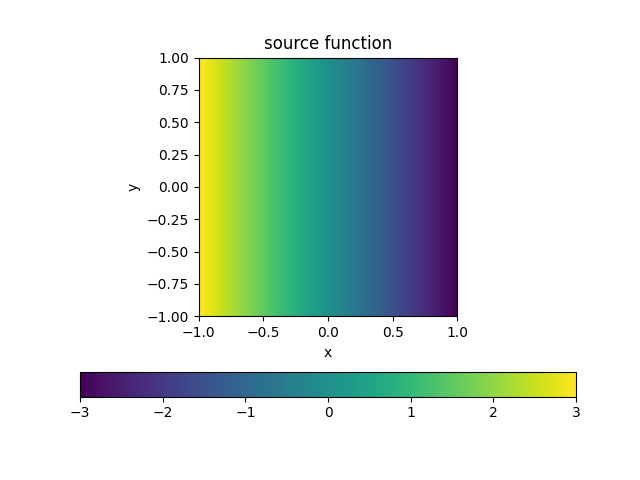
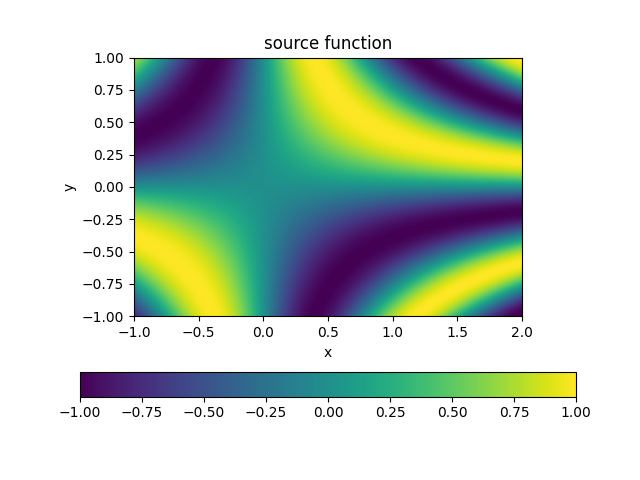
drm also seems to work for other domains. include nmfde A3 code to compare output to

diff --git a/old/nmfde_A3/assignment-3.py b/old/nmfde_A3/assignment-3.py
@@ -1,0 +1,181 @@
+import numpy as np
+import matplotlib.pyplot as plt
+import scipy.sparse as sp
+import scipy.sparse.linalg as la
+
+plot = True
+# parameters
+LeftX = -1.0
+RightX = 2.0
+LeftY = -1.0
+RightY = 1.0
+Nx = 200 # number of intervals in x-direction
+Ny = 200 # number of intervals in y-direction
+dx = (RightX - LeftX) / Nx # grid step in x-direction
+dy = (RightY - LeftY) / Ny # grid step in y-direction
+# xgrid = np.linspace(LeftX, RightX, Nx+1)
+# ygrid = np.linspace(LeftY, RightY, Ny+1)
+# x,y = np.meshgrid(xgrid[1:-1], ygrid[1:-1])
+x,y = np.mgrid[LeftX+dx:RightX:dx, LeftY+dy:RightY:dy]
+x = x.transpose()
+y = y.transpose()
+if plot and Nx < 5:
+    print(x)
+    print(y)
+
+def assemble_D(n, h=1.0):
+    d0 = np.repeat(-1, n-1)
+    d1 = np.repeat(1, n-1)
+    D = sp.diags([d0, d1], [-1, 0], shape=(n, n-1))
+    return D / h
+
+def FD_laplacian_2d(Nx, Ny, dx, dy):
+    Dx = assemble_D(Nx, dx)
+    Lxx = Dx.transpose().dot(Dx)
+    Ix = sp.eye(Nx - 1)
+    Dy = assemble_D(Ny, dy)
+    Lyy = Dy.transpose().dot(Dy)
+    Iy = sp.eye(Ny - 1)
+    A = sp.kron(Iy, Lxx) + sp.kron(Lyy, Ix)
+    return A
+
+def sourcefunc(x, y, alpha=40):
+    sum = 0
+    for i in range(1,10):
+        for j in range(1,5):
+            sum += np.exp(-alpha*(x-i)**2 - alpha*(y-j)**2)
+    return sum
+
+def sourcefunc_const(x, y, const=-3):
+    return x*const
+
+def source_2(x, y):
+    return np.exp(-20*(x-0.5)**2 - 20*(y-0.5)**2)+0.1
+
+def source3(x, y):
+    return np.sin(4*x*y)
+
+f = source3(x, y)
+flx = np.reshape(f, (Nx-1)*(Ny-1), order='C')
+A = FD_laplacian_2d(Nx, Ny, dx, dy)
+u = la.spsolve(A, flx)
+# reshaping the solution vector into 2D array
+uArr = np.reshape(u, (Ny-1, Nx-1), order='C')
+uArr = np.pad(uArr, ((1, 1), (1, 1)), 'constant', constant_values=0)
+
+
+# visualizing the matrix
+if plot:
+    if Nx < 5:
+        print(A.toarray())
+    plt.figure(0)
+    plt.spy(A)
+    plt.savefig('plots/sparsity.png')
+    #plt.show()
+# visualizing the source function
+if plot:
+    #plt.ion()
+    plt.figure(1)
+    plt.clf()
+    plt.imshow(f, extent=[x.min(), x.max(), y.min(), y.max()], origin='lower')
+    plt.colorbar()
+    # additional commands to make your plot look correct
+    plt.xlabel('x')
+    plt.ylabel('y')
+    plt.title('Source function')
+    plt.savefig('plots/source.png')
+    #plt.show()
+
+# visualizing the solution
+if plot:
+    plt.figure(2)
+    plt.clf()
+    plt.imshow(uArr, extent=[x.min(), x.max(), y.min(), y.max()], origin='lower')
+    plt.colorbar()
+    # additional commands to make your plot look correct
+    plt.xlabel('x')
+    plt.ylabel('y')
+    plt.title('Solution')
+    plt.savefig('plots/solution.png')
+    #plt.show()
+
+# FVM
+
+def coeffK1(x, y):
+    return x*0 + 1
+
+def coeffK2(x, y):
+    return 1 + 0.1*(x+y+x*y)
+
+def create2DLFVM(Nx, Ny, dx, dy, coeffFun):
+    # main diagonal
+    diag = np.zeros((Nx-1) * (Ny-1))
+    upper = np.zeros((Nx-1) * (Ny-1) - 1)
+    lower = np.zeros((Nx-1) * (Ny-1) - 1)
+    upper_upper = np.zeros((Nx-1) * (Ny-1) - Nx + 1)
+    lower_lower = np.zeros((Nx-1) * (Ny-1) - Nx + 1)
+    if Nx < 5:
+        print(len(diag), len(upper), len(lower), len(upper_upper), len(lower_lower))
+    for j in range(1, Ny):
+        for i in range(1, Nx):
+            idx = (j-1)*(Nx-1) + i-1
+            if Nx < 5:
+                print('i =', i, 'j =', j, 'idx =', idx)
+                print('i*dx =', i*dx, 'j*dy =', j*dy)
+            x = i * dx
+            y = j * dy
+            diag[idx] = ((coeffFun(x-dx/2, y) / dx**2) + (coeffFun(x, y-dy/2)) / dy**2) + ((coeffFun(x + dx/2, y) / dx**2) + (coeffFun(x, y+dy/2)) / dy**2)
+            if i < Nx-1:
+                upper[idx] = -coeffFun(x + dx/2, y) / dx**2
+            if i > 1:
+                lower[idx-1] = -coeffFun(x - dx/2, y) / dx**2
+            if j < Ny-1:
+                upper_upper[idx] = -coeffFun(x, y + dy/2) / dy**2
+            if j > 1:
+                lower_lower[idx-Nx+1] = -coeffFun(x, y - dy/2) / dy**2
+    A = sp.diags([lower_lower, lower, diag, upper, upper_upper], [-(Nx-1), -1, 0, 1, Nx-1], shape=((Nx-1)*(Ny-1), (Nx-1)*(Ny-1)), format='csc')
+    return A
+
+
+f = sourcefunc(x, y)
+flx = np.reshape(f, (Nx-1)*(Ny-1), order='C')
+A = create2DLFVM(Nx, Ny, dx, dy, coeffK2)
+u = la.spsolve(A, flx)
+uArr = np.reshape(u, (Ny-1, Nx-1), order='C')
+uArr = np.pad(uArr, ((1, 1), (1, 1)), 'constant', constant_values=0)
+
+if plot:
+    if Nx < 5:
+        print(A.toarray())
+    plt.figure(3)
+    plt.spy(A)
+    plt.savefig('plots/sparsity_fvm.png')
+    #plt.show()
+
+if plot:
+    plt.figure(4)
+    plt.clf()
+    plt.subplot(1, 2, 1)
+    plt.imshow(coeffK1(x, y), extent=[x.min(), x.max(), y.min(), y.max()], origin='lower')
+    plt.title('k1')
+    plt.xlabel('x')
+    plt.ylabel('y')
+    plt.subplot(1, 2, 2)
+    plt.imshow(coeffK2(x, y), extent=[x.min(), x.max(), y.min(), y.max()], origin='lower')
+    plt.title('k2')
+    plt.xlabel('x')
+    plt.ylabel('y')
+    plt.savefig('plots/k_functions.png', bbox_inches='tight')
+
+# visualizing the solution
+if plot:
+    plt.figure(5)
+    plt.clf()
+    plt.imshow(uArr, extent=[x.min(), x.max(), y.min(), y.max()], origin='lower')
+    plt.colorbar()
+    # additional commands to make your plot look correct
+    plt.xlabel('x')
+    plt.ylabel('y')
+    plt.title('Solution FVM')
+    plt.savefig('plots/solution_fvm.png')
+    #plt.show()

diff --git a/project8/newDeepRitz.py b/project8/newDeepRitz.py
@@ -6,7 +6,7 @@ import matplotlib.pyplot as plt
 
 def drm_forcing_2d_poisson(input):
     # eq 12 in paper: f=1
-    f = input[:, 0] * -3
+    f = input[:, 0] * 0 + 1
     return f.unsqueeze(1)
 
 def sourcefunc_nmfde_A3(input, alpha=40):
@@ -16,8 +16,16 @@ def sourcefunc_nmfde_A3(input, alpha=40):
             sum += torch.exp(-alpha*(input[:, 0]-i)**2 - alpha*(input[:,1]-j)**2)
     return sum
 
+def source3(input):
+    f = torch.exp(-20 * (input[:, 0] - 0.5) ** 2 - 20 * (input[:, 1] - 0.5) ** 2) + 0.1
+    return f.unsqueeze(1)
+
+def source4(input):
+    return torch.sin(4  * input[:, 0] * input[:, 1]).unsqueeze(1)
+
+# to change which is used:
 def source(input):
-    return drm_forcing_2d_poisson(input)
+    return source4(input)
 
 def drm_loss_2d_poisson_domain(domain_input, domain_output):
     # sum/mean of 0.5 * (u_x^2 + u_y^2) - f*u in the domain
@@ -33,16 +41,21 @@ def drm_loss_2d_poisson_bndry(bndry_output):
     return torch.mean(bndry_output * bndry_output)
 
 device = cv.get_device()
-model = neural_networks.models.NN.DRM(2, 10, 4)
+# init model
+act_fn = neural_networks.modules.Sin(torch.pi)
+model = neural_networks.models.NN.DRM(2, 20, 4, act_fn=act_fn)
 print(model)
 model.to(device)
 model.double()
-model.initialize_weights(torch.nn.init.xavier_uniform_, torch.nn.init.zeros_, weight_init_kwargs={'gain': 0.5})
-n_epochs = 3000
+model.initialize_weights(torch.nn.init.xavier_uniform_, torch.nn.init.zeros_, weight_init_kwargs={'gain': 0.5   })
+
+# training params
+n_epochs = 5000
 optimizer = torch.optim.Adam(model.parameters(), lr=1e-3)
-coord_space = cv.float_parameter_space([[-1, 1], [-1, 1]], device)
-# test source function
-f_loc = coord_space.fgrid(100)
+coord_space = cv.float_parameter_space([[-1, 2], [-1, 1]], device) # domain defined here
+
+# plot source function
+f_loc = coord_space.fgrid(300)
 f = source(f_loc)
 x, y = coord_space.regrid(f_loc)
 f = coord_space.regrid(f)[0]
@@ -51,21 +64,23 @@ x = x.detach().to('cpu')
 y = y.detach().to('cpu')
 cv.plot_2d(x, y, f, title='source function', fig_id=1)
 
+# train
 for epoch in range(n_epochs):
     domain_input = coord_space.rand(1000).requires_grad_(True)
     domain_output = model(domain_input)
-    loss1 = drm_loss_2d_poisson_domain(domain_input, domain_output)
-    bndry_input = coord_space.bndry_rand(1000).requires_grad_(True)
+    domain_loss = drm_loss_2d_poisson_domain(domain_input, domain_output)
+    bndry_input = coord_space.bndry_rand(500).requires_grad_(True)
     bndry_output = model(bndry_input)
-    loss2 = drm_loss_2d_poisson_bndry(bndry_output)
-    loss = loss1 + 500 * loss2
+    bndry_loss = drm_loss_2d_poisson_bndry(bndry_output)
+    loss = domain_loss + 100 * bndry_loss
     optimizer.zero_grad()
     loss.backward()
     optimizer.step()
     if epoch % 100 == 0:
-        print(f'Epoch {epoch}, loss1: {loss1.item()}, loss2: {loss2.item()}, loss: {loss.item()}')
+        print(f'Epoch {epoch}, domain loss: {domain_loss.item()}, boundary loss: {bndry_loss.item()}, total: {loss.item()}')
 
-grid = coord_space.fgrid(100)
+# plot output
+grid = coord_space.fgrid(200)
 output = model(grid)
 x, y = coord_space.regrid(grid)
 f = coord_space.regrid(output)[0]

diff --git a/project8/convenience.py b/project8/convenience.py
@@ -8,7 +8,7 @@ import time
 
 def get_device(override: str = None):
     if override is not None:
-        return torch.device(override)
+        return override
     device = 'cuda:0' if torch.cuda.is_available() else 'cpu'
     if device == 'cpu':
         warn('CUDA/ROCm not available, Using CPU.')
@@ -24,8 +24,8 @@ def plot_2d(x, y, f, title, fig_id=0, filename=None):
     plt.xlabel('x')
     plt.ylabel('y')
     plt.title(title)
-    if domain[1] - domain[0] < domain[3] - domain[2]:
-        plt.colorbar()
+    if domain[1] - domain[0] <1.1* (domain[3] - domain[2]):
+        plt.colorbar(orientation='vertical')
     else:
         plt.colorbar(orientation='horizontal')
     plt.savefig('plots/'+filename)
@@ -46,7 +46,7 @@ def plot_plane(x, y, f, title, fig_id=0, filename=None):
 class float_parameter_space:
     def __init__(self, domain: iter, device='cpu'):
         # domain is a 2D tensor of floats, for constant parameters, use [a, a]
-        # all methods output a tensor of floats ready to be used in models
+        # most methods output a tensor of float64 ready to be used in models, in shape (n, d)
         # all methods are generally a lot slower on gpu than on cpu,
         # but still faster than having this class on cpu and moving output to gpu
         self.domain = torch.tensor(domain, dtype=torch.float64, device=device)
@@ -68,7 +68,7 @@ class float_parameter_space:
         if center is None:
             center = self.center
         if amp is None:
-            amp = self.amp
+            amp = self.amp / 3
         rand = center + amp * torch.randn(n, self.domain.shape[0], device=self.device)
         return rand
 
@@ -96,7 +96,7 @@ class float_parameter_space:
         return grids
 
     def fgrid(self, n: int) -> torch.Tensor:
-        # flat grid
+        # flattened grid
         # returns a tensor of shape (n^d, d)
         # lexicographically ordered (first dimension changes fastest)
         # slow
@@ -185,9 +185,9 @@ def format_time(t):
         return f'{t/3600:.2f} h'
 
 if __name__ == "__main__":
-    device = get_device()
+    # device = get_device()
     domain = [[-1, 1], [-1, 1]]
-    space = float_parameter_space(domain, device)
-    tmr = timer(); tmr.start()
-    bndry = space.rand(100)
-    tmr.stop(); tmr.rr()
+    space = float_parameter_space(domain, 'cpu')
+    loc = space.bndry_rand(1000).detach().to('cpu')
+    plt.scatter(loc[:,0], loc[:,1], s=1)
+    plt.show()

diff --git a/old/nmfde_A3/equations.py b/old/nmfde_A3/equations.py
@@ -1,0 +1,28 @@
+irng = [1, 2, 3]
+jrng = [1, 2, 3]
+
+def get_eq(i,j):
+    eq = """-\\frac{k_{i-\\frac{1}{2},j}}{h_x^2}u_{i-1,j}
+-\\frac{k_{i,j-\\frac{1}{2}}}{h_y^2}u_{i,j-1}
+-\\frac{k_{i+\\frac{1}{2},j}}{h_x^2}u_{i+1,j}
+-\\frac{k_{i,j+\\frac{1}{2}}}{h_y^2}u_{i,j+1}\\\\
++ \\left(
+\\frac{k_{i-\\frac{1}{2},j}}{h_x^2} 
++ \\frac{k_{i,j-\\frac{1}{2}}}{h_y^2}
++ \\frac{k_{i+\\frac{1}{2},j}}{h_x^2}
++ \\frac{k_{i,j+\\frac{1}{2}}}{h_y^2}
+\\right) u_{i,j}
+= f_{i,j}\\\\"""
+
+    eq = eq.replace('i+1', str(i+1)). replace('i-1', str(i-1)).replace('i+\\frac{1}{2}', str(i+0.5)).replace('i-\\frac{1}{2}', str(i-0.5)).replace('i', str(i))
+    eq = eq.replace('j+1', str(j+1)). replace('j-1', str(j-1)).replace('j+\\frac{1}{2}', str(j+0.5)).replace('j-\\frac{1}{2}', str(j-0.5)).replace('j', str(j))
+    eq = eq.replace('r1ght', 'right').replace('r2ght', 'right').replace('r3ght', 'right').replace('r4ght', 'right')
+    return eq
+
+def get_eqs(irng, jrng):
+    eqs = []
+    for j in jrng:
+        for i in irng:
+            print(get_eq(i,j))
+
+get_eqs(irng, jrng)

diff --git a/project8/neural_networks/modules.py b/project8/neural_networks/modules.py
@@ -35,3 +35,14 @@ class DRM_block(nn.Module):
         for layer in self.layers:
             out = out + '   ' + str(layer) + '\n'
         return out + '   ' + '+ block input (skip/residual connection)'
+
+class Sin(nn.Module):
+    def __init__(self, multiplier=1):
+        super().__init__()
+        self.multiplier = multiplier
+
+    def forward(self, x):
+        return torch.sin(x*self.multiplier)
+
+    def __str__(self):
+        return f'Sin(multiplier={self.multiplier})'
